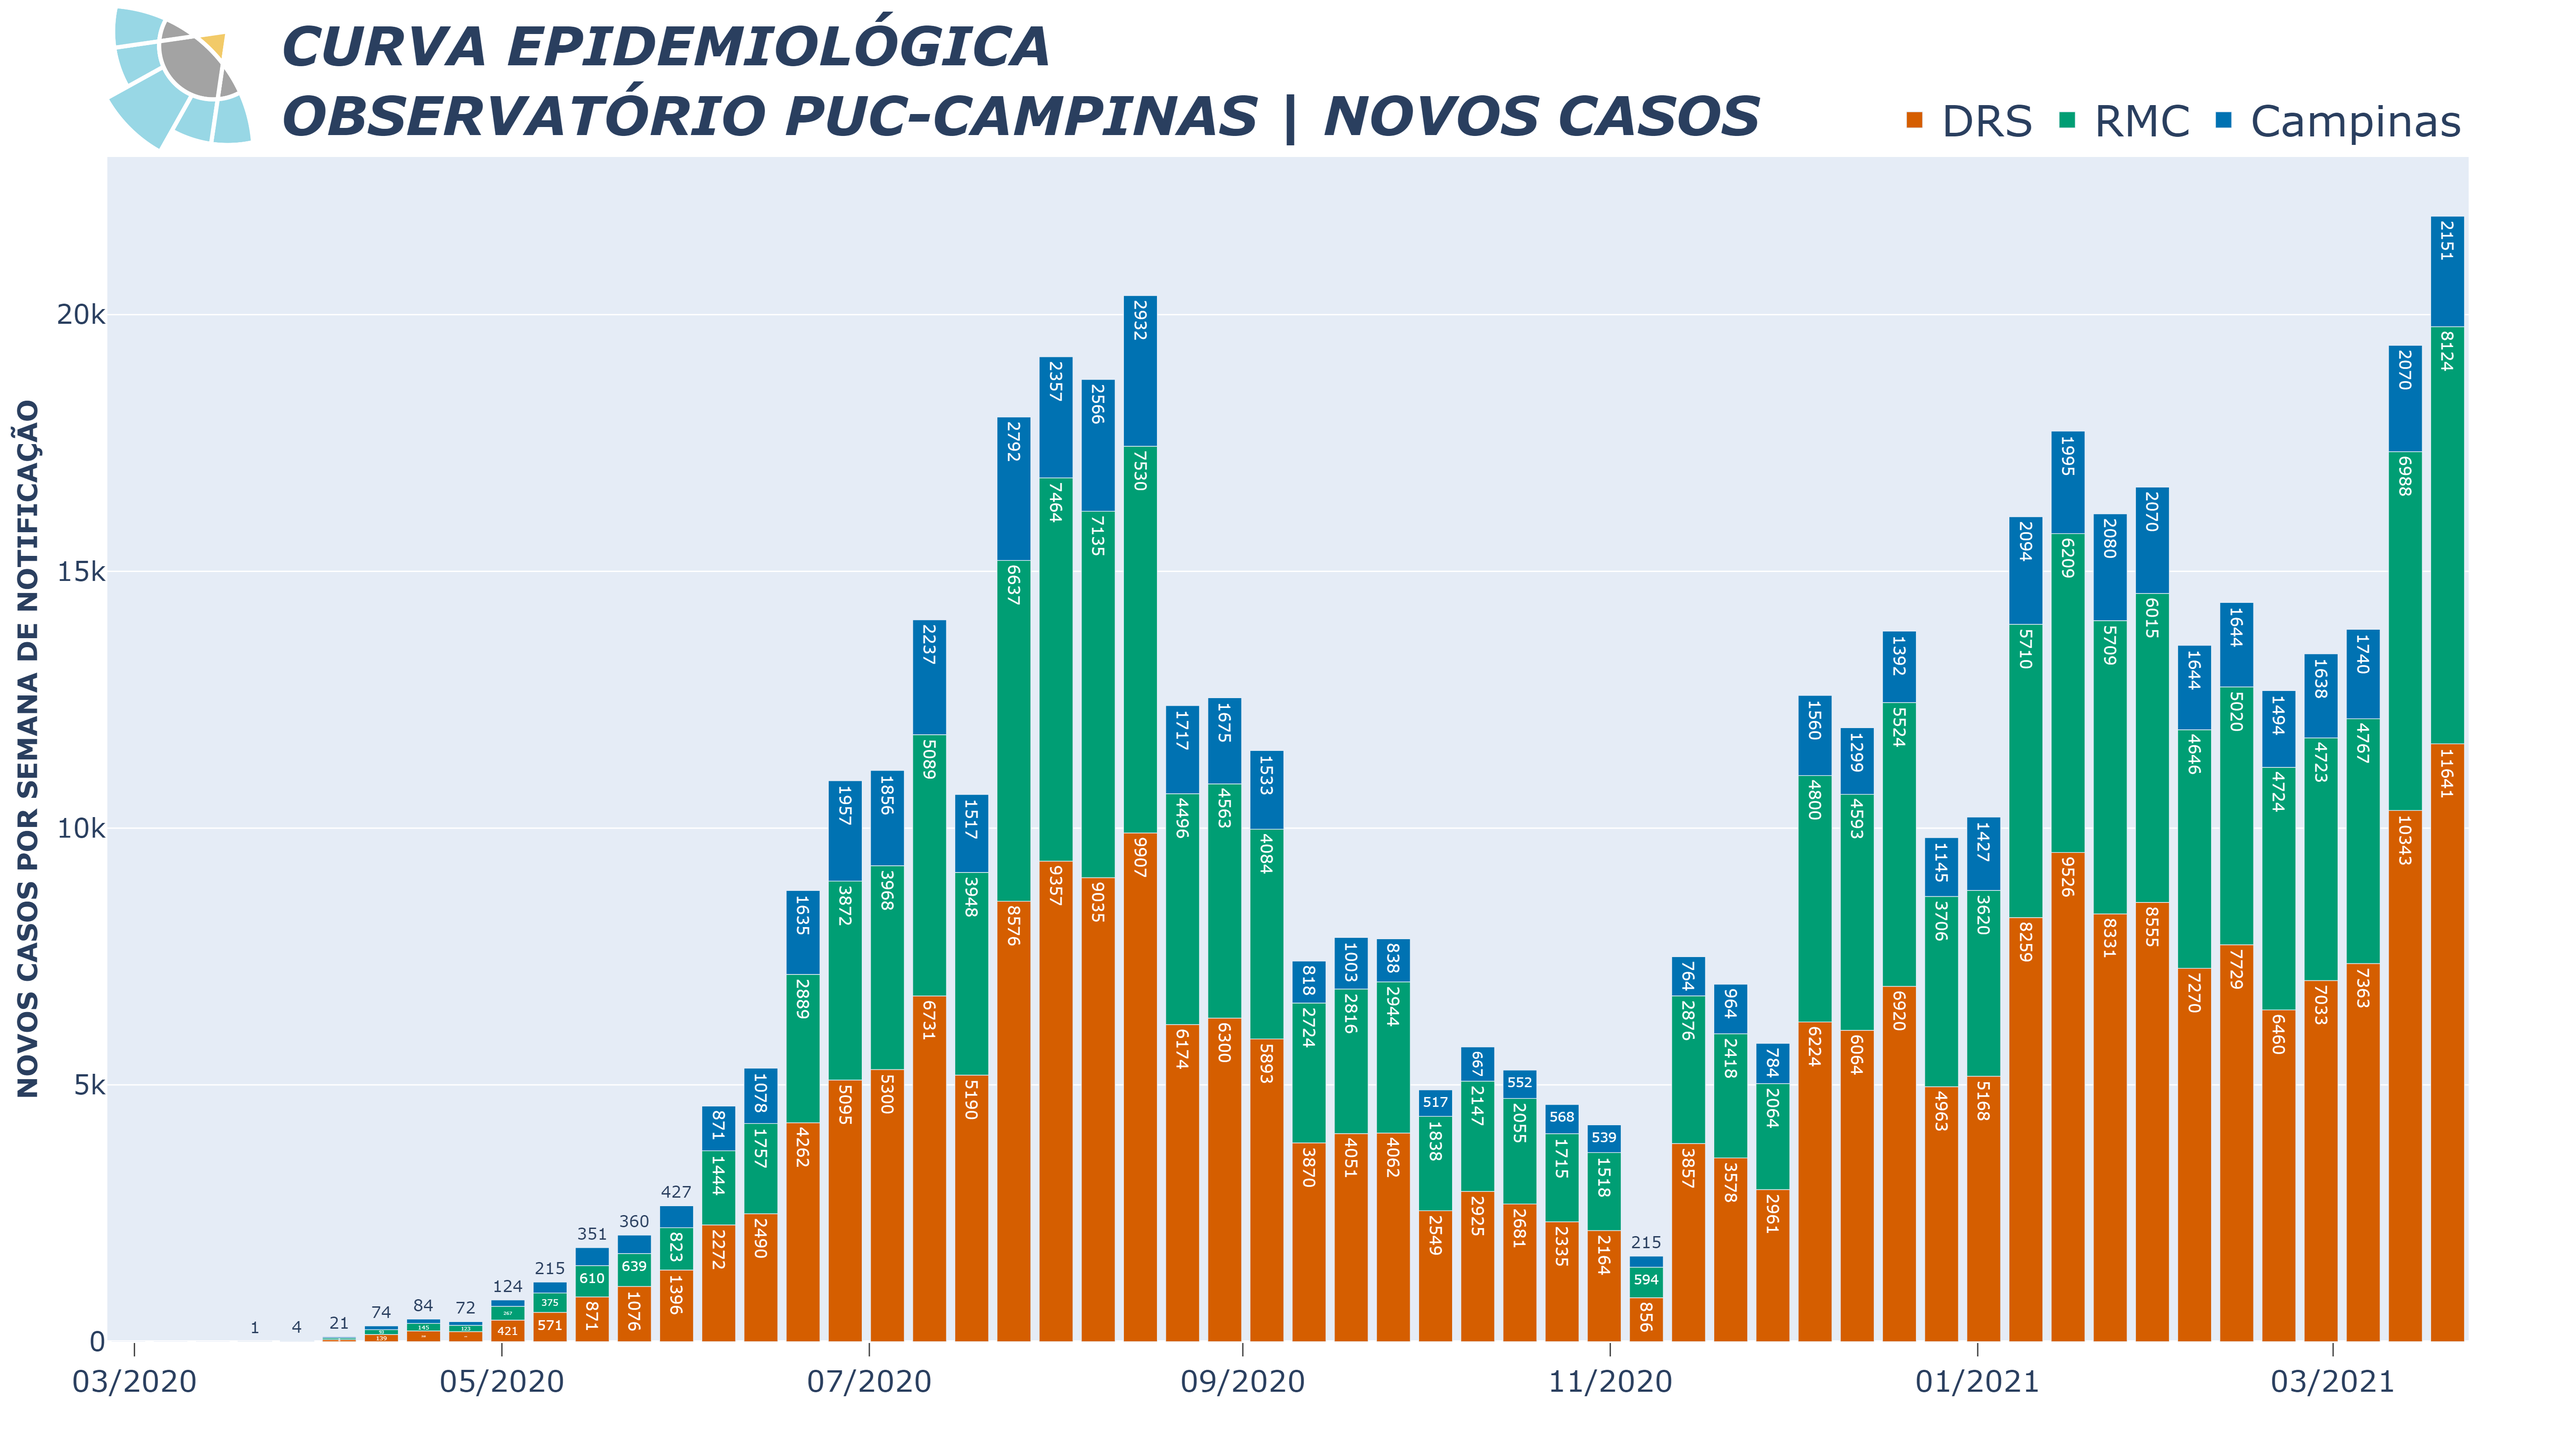
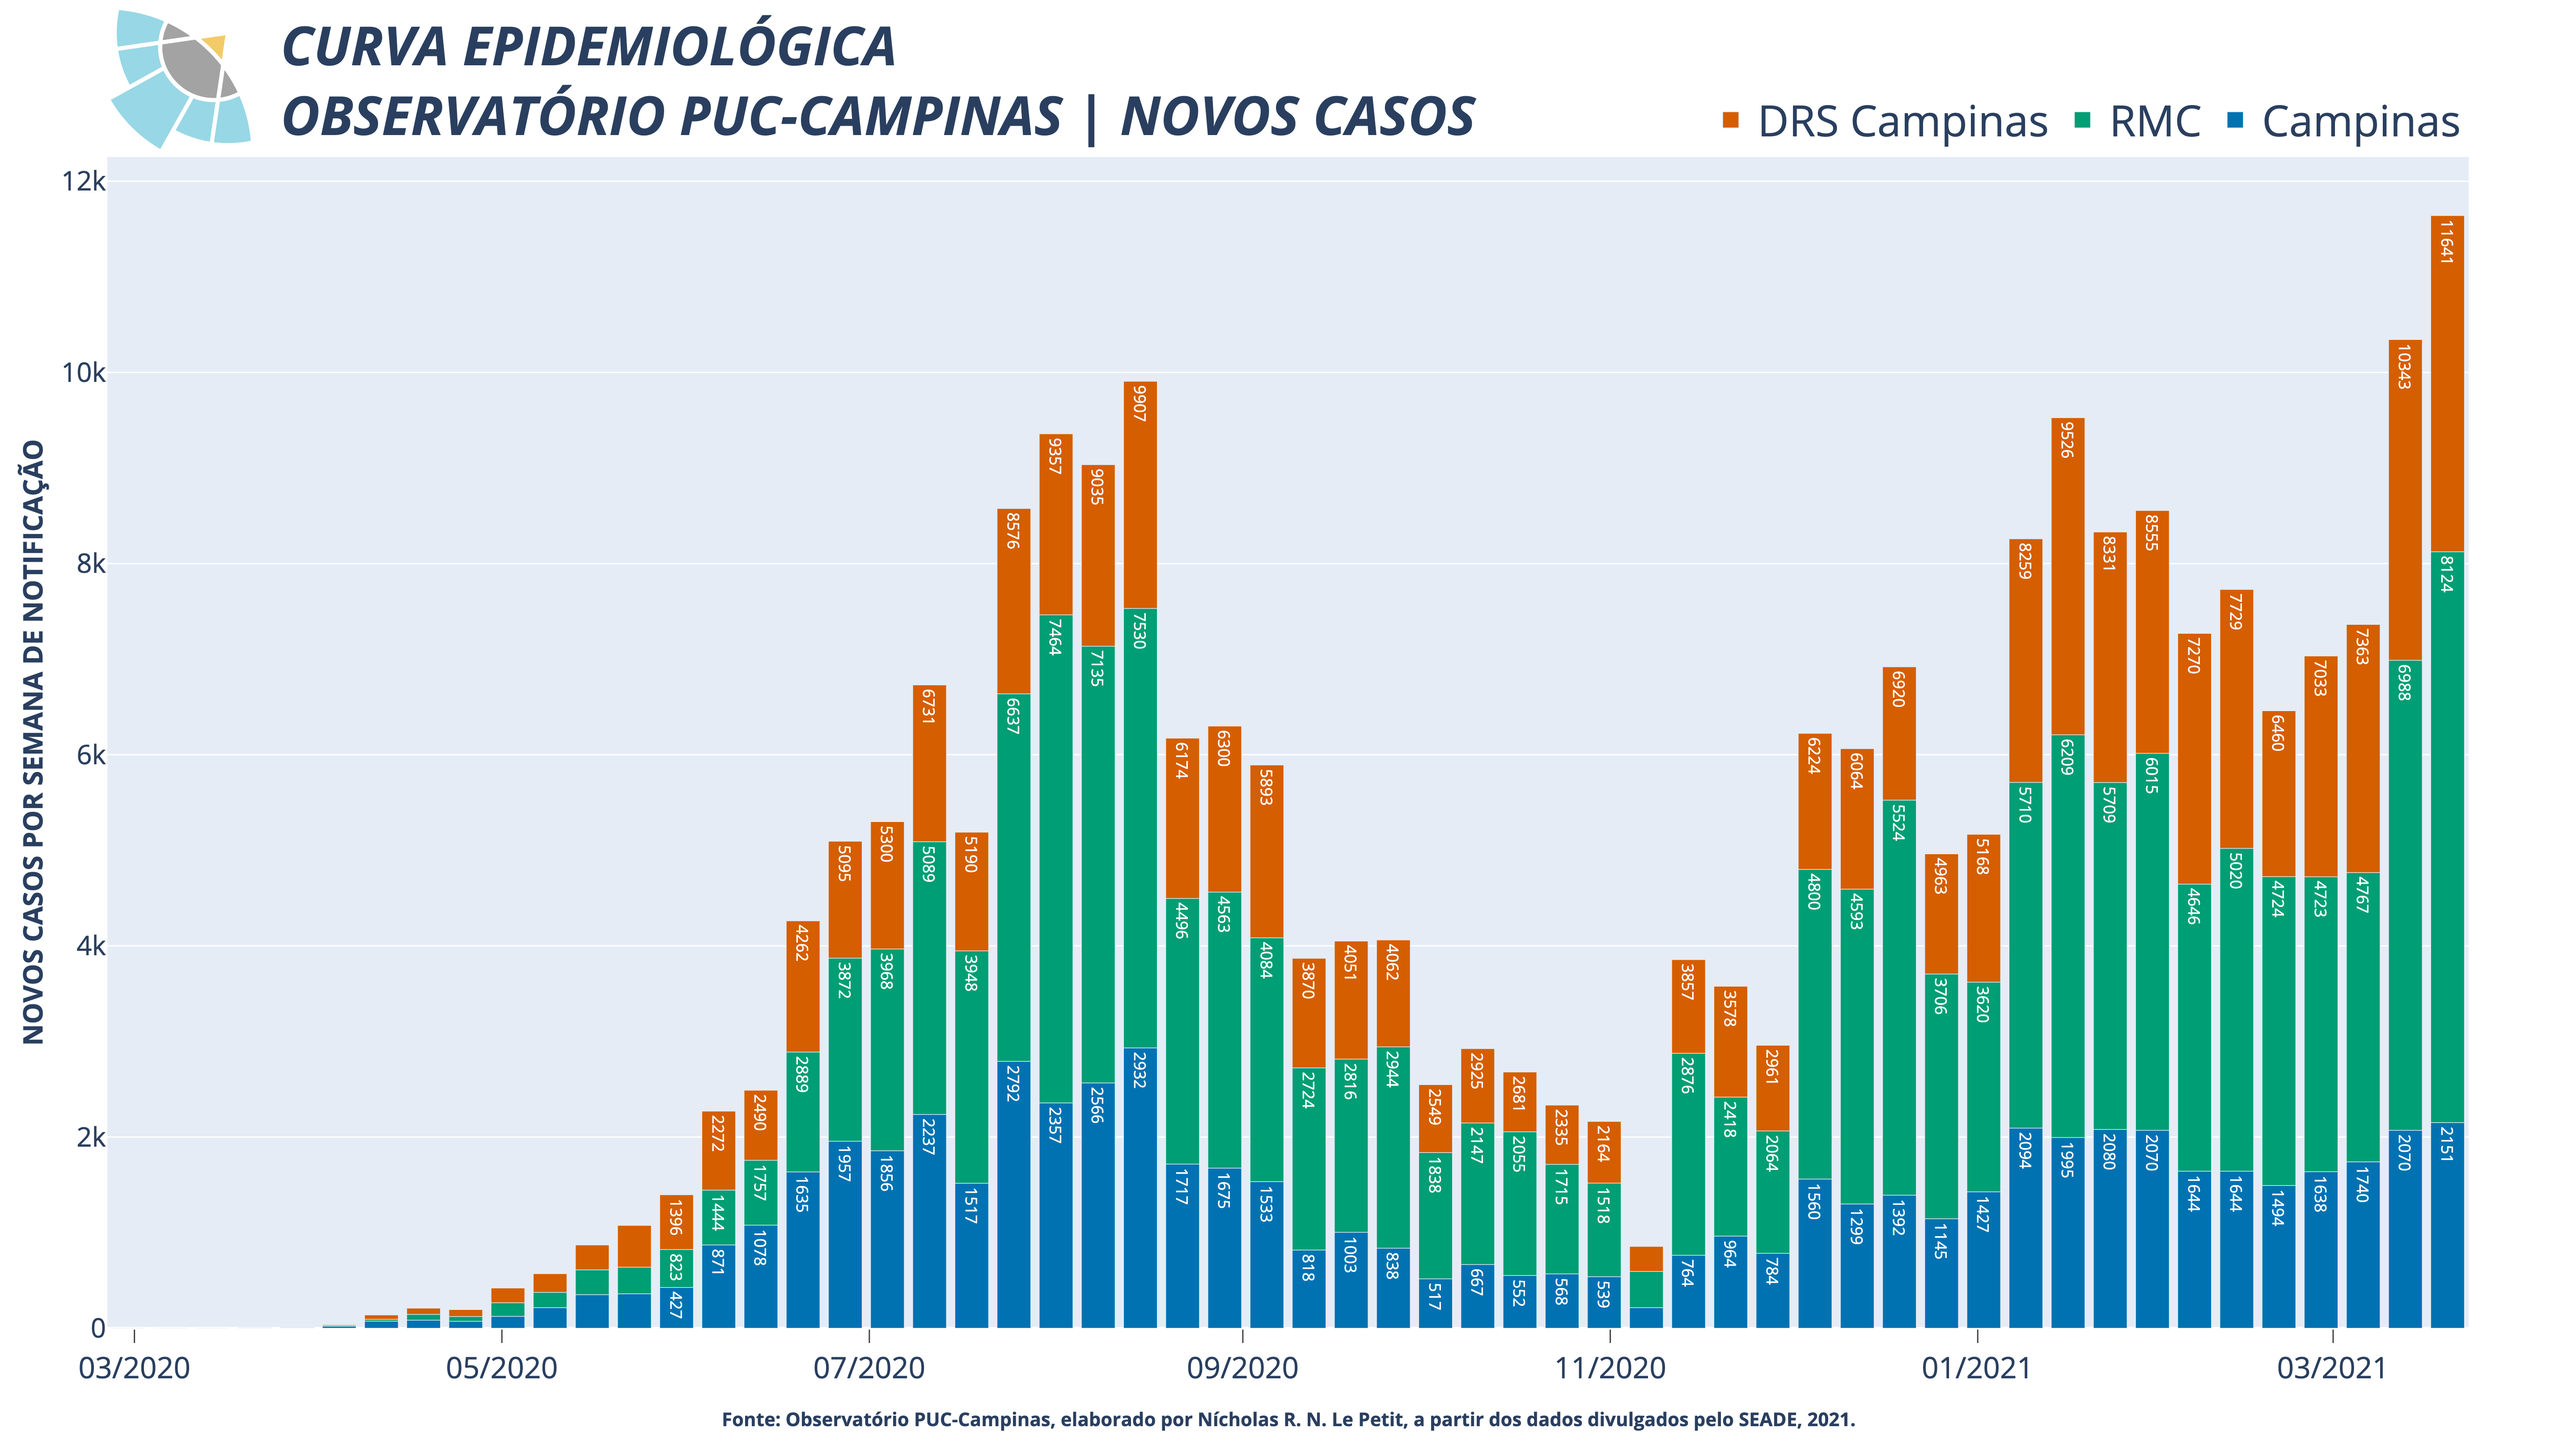
Updating to v2.01.

Changed region(s): [[0.0312, 0.1247, 0.9688, 0.9975], [0.0938, 0.0, 0.9375, 0.0935], [0.0, 0.2806, 0.0625, 0.7481]]

diff --git a/update_curves.py b/update_curves.py
@@ -104,7 +104,7 @@ if last_obs > todays_date:
 
 
 
-df_ds_gweek['level'] = 'DRS'
+df_ds_gweek['level'] = 'DRS Campinas'
 dfrmc_gweek['level'] = 'RMC'
 dfcps_gweek['level'] = 'Campinas'
 
@@ -118,7 +118,13 @@ dff_casos = dff.loc[:, ['date', 'level', 'newCases']]
 dff_obitos = dff.loc[:, ['date', 'level', 'newDeaths']]
 del dff
 
+dff_casos['labels'] = dff_casos['newCases']
+dates_no_label_casos = dff_casos.loc[(dff_casos['labels'] < 1300) & (dff_casos['level'] == 'DRS Campinas'), 'date'].unique().tolist()
+dff_casos.loc[dff_casos['date'].isin(dates_no_label_casos), 'labels'] = np.nan
 
+dff_obitos['labels'] = dff_obitos['newDeaths']
+dates_no_label_obitos = dff_obitos.loc[(dff_obitos['labels'] < 52) & (dff_obitos['level'] == 'DRS Campinas'), 'date'].unique().tolist()
+dff_obitos.loc[dff_obitos['date'].isin(dates_no_label_obitos), 'labels'] = np.nan
 
 pltblue = '#0072b2'
 pltred = '#d55e00'
@@ -126,12 +132,12 @@ pltgreen = '#009e74'
 
 
 # GRÁFICO NOVOS CASOS
-fig = px.bar(dff_casos, x='date', y='newCases', color='level', text='newCases',
+fig = px.bar(dff_casos, x='date', y='newCases', color='level', text='labels',
              title='<i><b>CURVA EPIDEMIOLÓGICA<br>OBSERVATÓRIO PUC-CAMPINAS | NOVOS CASOS</b></i>',
-             color_discrete_map={'DRS': pltred, 'RMC': pltgreen, 'Campinas': pltblue})
+             color_discrete_map={'DRS Campinas': pltred, 'RMC': pltgreen, 'Campinas': pltblue}, barmode='overlay')
 
 fig.update_layout(
-    margin={'t': 117},
+    margin={'t': 117, 'b': 90},
     xaxis={
         'title': {'text': ''},
         'tickfont': {'size': 22},
@@ -177,6 +183,11 @@ fig.add_layout_image(
     )
 )
 
+fig.add_annotation(text="<b>Fonte: Observatório PUC-Campinas, elaborado por Nícholas R. N. Le Petit, a partir dos dados divulgados pelo SEADE, 2021.</b>",
+ xref='paper', yref='paper', x=0.5, y=-0.09, showarrow=False, font={'size': 14})
+
+fig.update_traces({'marker': {'opacity': 1}})
+
 fig.write_image('latest_casos_curva.png', width=1920, height=1080, scale=3)
 fig.write_image(f"graph_history\\casos_{todays_date.strftime('%d_%m_%y')}.png", width=1920, height=1080, scale=3)
 
@@ -184,12 +195,12 @@ fig.write_image(f"graph_history\\casos_{todays_date.strftime('%d_%m_%y')}.png", 
 
 
 # GRÁFICO NOVOS ÓBITOS
-fig = px.bar(dff_obitos, x='date', y='newDeaths', color='level', text='newDeaths',
+fig = px.bar(dff_obitos, x='date', y='newDeaths', color='level', text='labels',
              title='<i><b>CURVA EPIDEMIOLÓGICA<br>OBSERVATÓRIO PUC-CAMPINAS | NOVOS OBITOS</b></i>',
-             color_discrete_map={'DRS': pltred, 'RMC': pltgreen, 'Campinas': pltblue})
+             color_discrete_map={'DRS Campinas': pltred, 'RMC': pltgreen, 'Campinas': pltblue}, barmode='overlay')
 
 fig.update_layout(
-    margin={'t': 117},
+    margin={'t': 117, 'b': 90},
     xaxis={
         'title': {'text': ''},
         'tickfont': {'size': 22},
@@ -234,6 +245,11 @@ fig.add_layout_image(
         xanchor="right", yanchor="bottom"
     )
 )
+
+fig.add_annotation(text="<b>Fonte: Observatório PUC-Campinas, elaborado por Nícholas R. N. Le Petit, a partir dos dados divulgados pelo SEADE, 2021.</b>",
+ xref='paper', yref='paper', x=0.5, y=-0.09, showarrow=False, font={'size': 14})
+
+fig.update_traces({'marker': {'opacity': 1}})
 
 fig.write_image('latest_obitos_curva.png', width=1920, height=1080, scale=3)
 fig.write_image(f"graph_history\\obitos_{todays_date.strftime('%d_%m_%y')}.png", width=1920, height=1080, scale=3)
